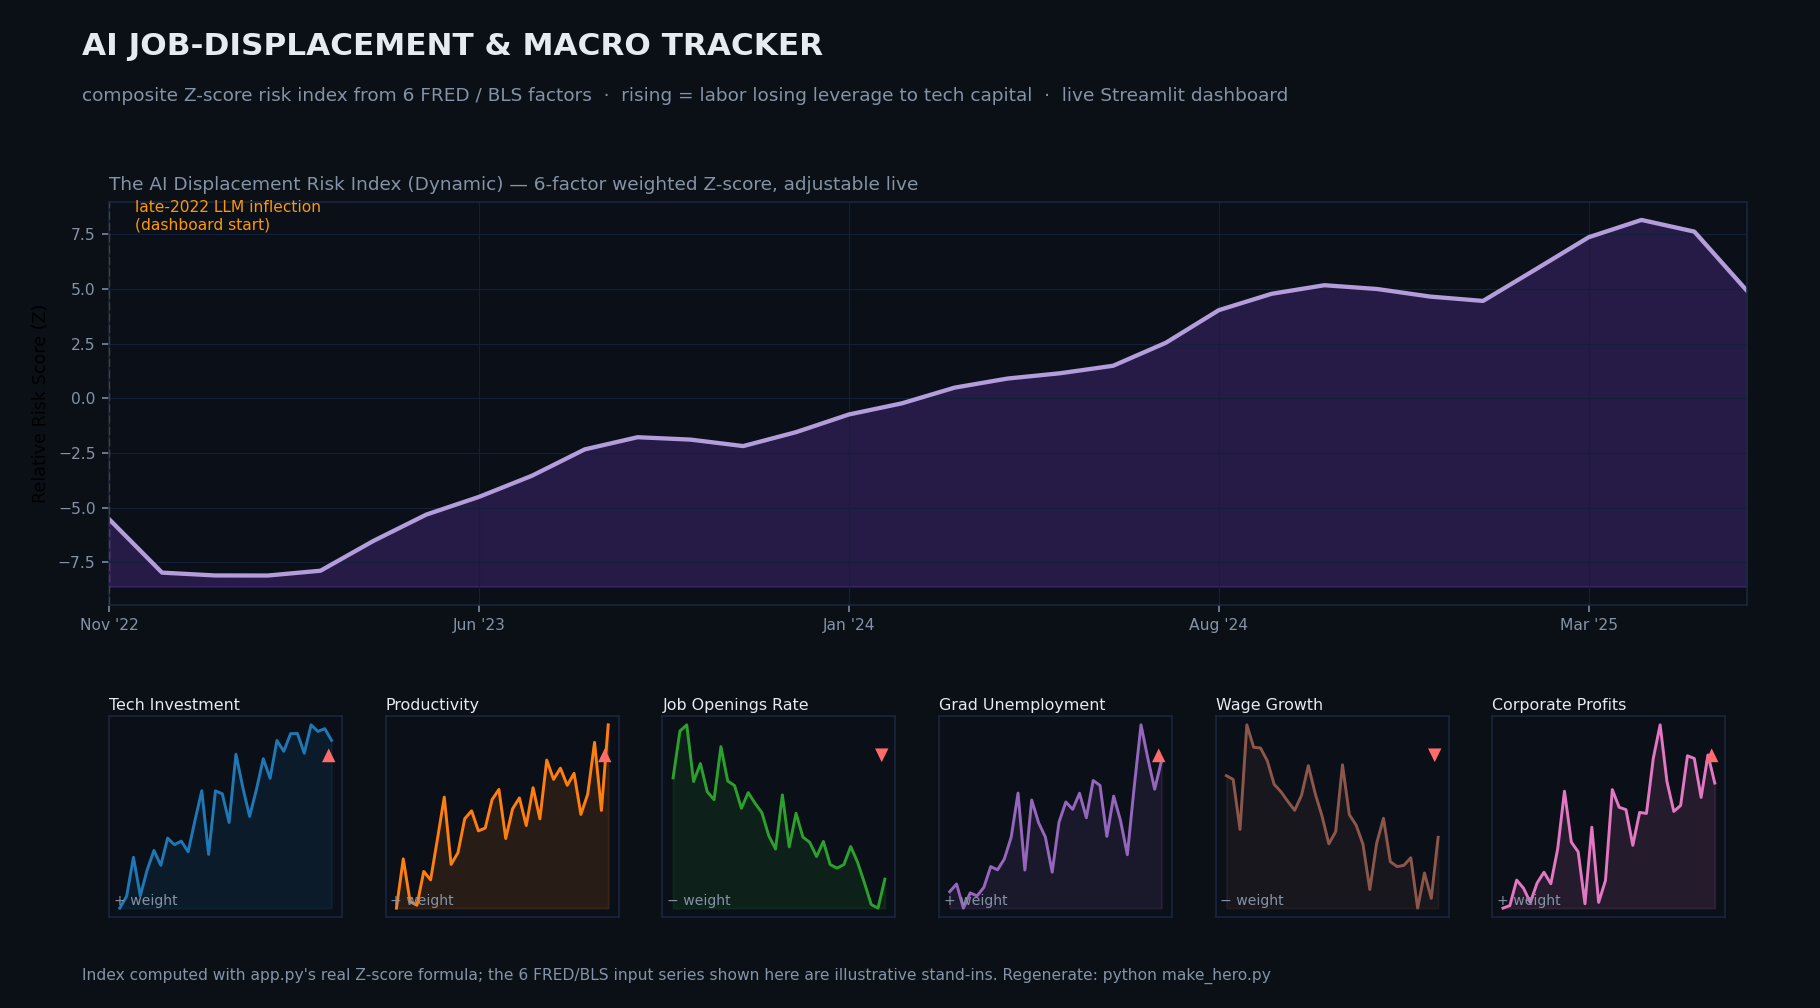
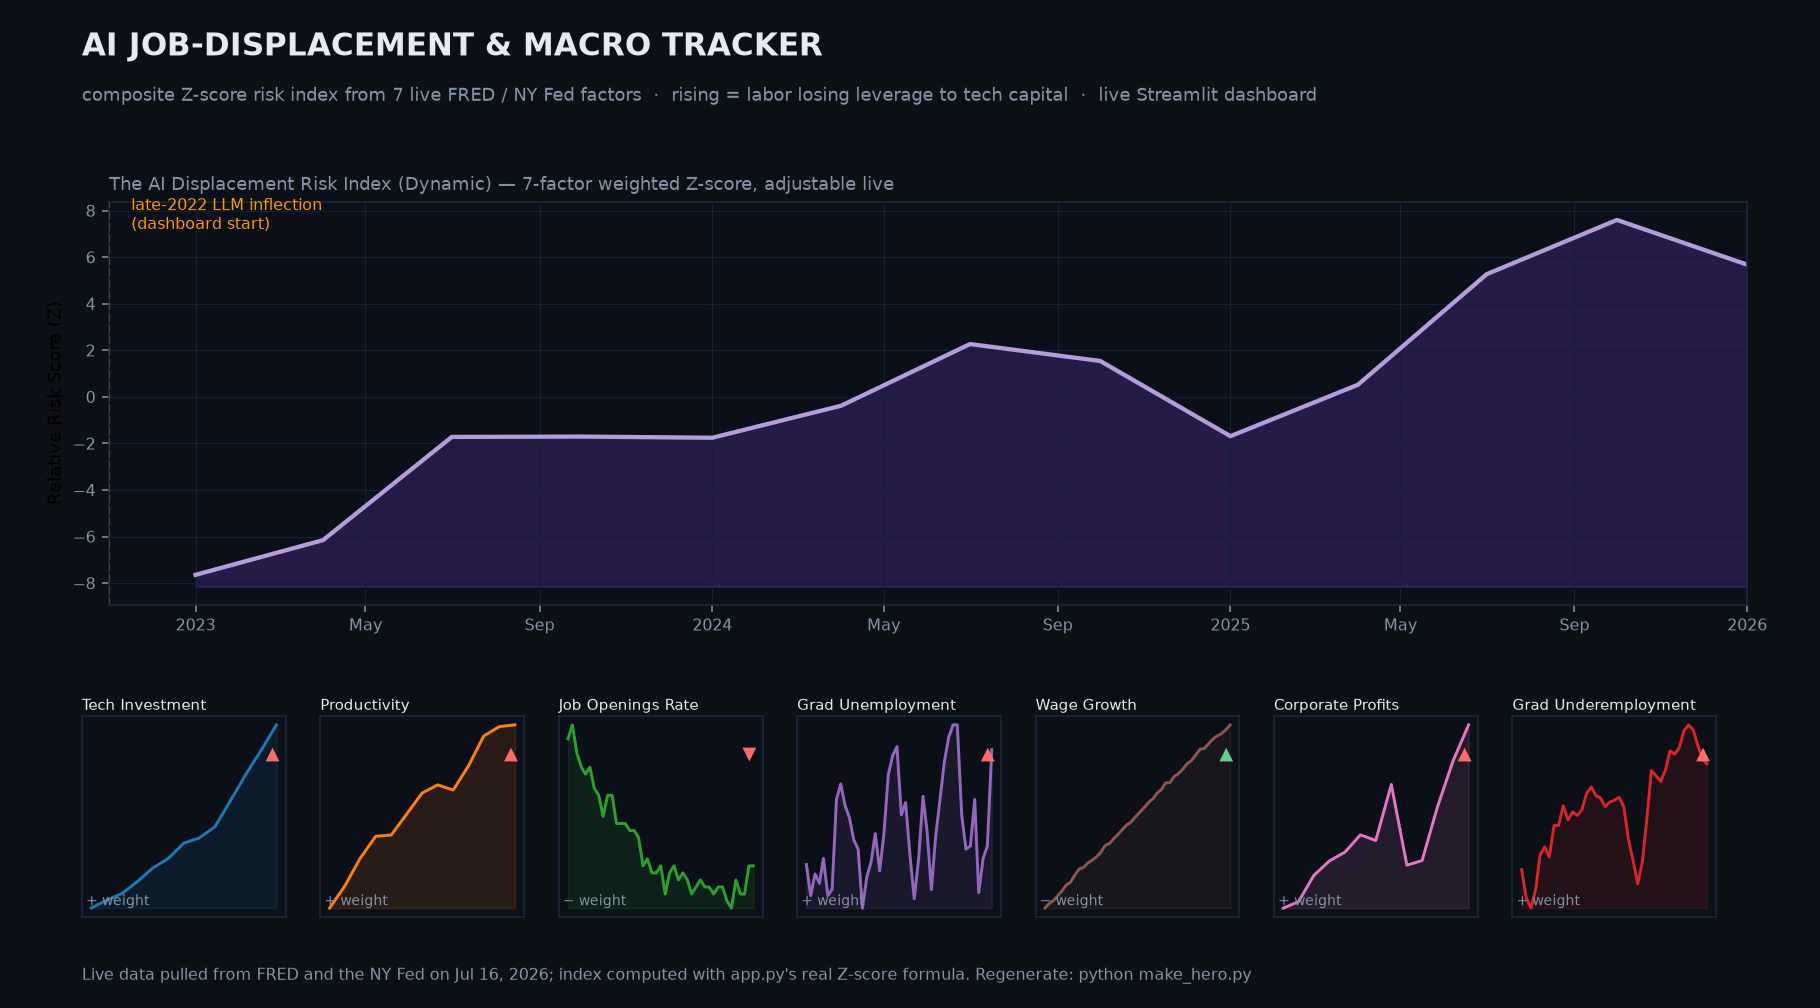
Regenerate hero image from live data with the 7-factor index
make_hero.py now pulls FRED and NY Fed data at generation time and
computes the real 7-factor index (previously 6 illustrative stand-in
series). Pin matplotlib and update the README caption to match.

diff --git a/make_hero.py b/make_hero.py
@@ -2,104 +2,115 @@
 """
 Generate docs/hero.png - the README image.
 
-The composite AI Displacement Risk Index is computed with the app's REAL logic
-(normalize_series -> Z-scores, the same +/- signs and weighted sum from app.py).
-The six underlying FRED/BLS series are illustrative stand-ins (the live app pulls
-them from FRED/BLS/USCIS with your API keys), shaped to the documented thesis:
-labor losing leverage to tech capital after the late-2022 LLM inflection.
+Pulls LIVE data at generation time — the same FRED series as the dashboard
+plus the NY Fed college labor market workbook — and computes the composite
+AI Displacement Risk Index with the app's REAL logic (normalize_series ->
+Z-scores, the same +/- signs and weighted sum from app.py, all weights 1.0).
 
-Run:  python make_hero.py     (needs numpy + matplotlib)
+Run:  python make_hero.py     (needs the app's requirements + matplotlib,
+                               and FRED_API_KEY in .env)
 """
 import os
+from datetime import date
 
-import numpy as np
+import pandas as pd
 import matplotlib
 matplotlib.use("Agg")
+import matplotlib.dates as mdates
 import matplotlib.pyplot as plt
+from dotenv import load_dotenv
 
-rng = np.random.default_rng(7)
-N = 32  # monthly points, Nov 2022 -> ~Jun 2025
+from macro_tracker import fetch_all_macro_data
+from nyfed_extractor import fetch_college_labor_data
+
+START = pd.Timestamp("2022-11-01")  # the dashboard's default post-LLM window
 
 BG, INK, DIM = "#0b1017", "#e6ebf2", "#8493a6"
 IDX_FILL, IDX_LINE = "#673ab7", "#b39ddb"   # app.py index colors
 
 
-def normalize_series(x):
+def normalize_series(series):
     """Z-score — identical to app.py's normalize_series."""
-    s = np.std(x)
-    return (x - np.mean(x)) / s if s else x * 0
+    if series.std() == 0 or len(series) < 2:
+        return series * 0
+    return (series - series.mean()) / series.std()
 
 
-def trend(slope, noise=0.35, start=0.0):
-    base = start + slope * np.linspace(0, 1, N)
-    return base + rng.normal(0, noise, N) * np.std(base if np.std(base) else 1) * 0.5 + rng.normal(0, noise, N)
+# --- pull everything live ---
+load_dotenv()
+api_key = os.getenv("FRED_API_KEY")
+if not api_key:
+    raise SystemExit("FRED_API_KEY not found in .env")
 
+print("[*] Pulling FRED data...")
+macro = fetch_all_macro_data(api_key)
+print("[*] Pulling NY Fed college labor market data...")
+underemp = fetch_college_labor_data()["underemployment"]["Recent graduates"]
 
-# --- six illustrative pillars (raw units), directions per the thesis ---
+# --- the seven pillars, signed exactly as app.py's index ---
 pillars = {
-    "tech":  ("Tech Investment", "+", "#1f77b4", trend(3.0)),
-    "prod":  ("Productivity", "+", "#ff7f0e", trend(1.6)),
-    "jobs":  ("Job Openings Rate", "−", "#2ca02c", trend(-2.4)),
-    "unemp": ("Grad Unemployment", "+", "#9467bd", trend(2.2)),
-    "wage":  ("Wage Growth", "−", "#8c564b", trend(-1.2)),
-    "prof":  ("Corporate Profits", "+", "#e377c2", trend(2.0)),
+    "tech":     ("Tech Investment", 1, "#1f77b4", macro["total_tech_investment"]),
+    "prod":     ("Productivity", 1, "#ff7f0e", macro["productivity"]),
+    "jobs":     ("Job Openings Rate", -1, "#2ca02c", macro["job_openings_rate"]),
+    "unemp":    ("Grad Unemployment", 1, "#9467bd", macro["grad_unemp"]),
+    "wage":     ("Wage Growth", -1, "#8c564b", macro["wages"]),
+    "prof":     ("Corporate Profits", 1, "#e377c2", macro["profits"]),
+    "underemp": ("Grad Underemployment", 1, "#d62728", underemp),
 }
+pillars = {k: (name, sign, col, s[s.index >= START])
+           for k, (name, sign, col, s) in pillars.items()}
+
 # weighted Z-score sum, EXACTLY as app.py builds Dynamic_Risk_Score (all weights 1.0)
-sign = {"tech": 1, "prod": 1, "jobs": -1, "unemp": 1, "wage": -1, "prof": 1}
-risk = np.zeros(N)
-for k, (_, _, _, series) in pillars.items():
-    risk += sign[k] * normalize_series(series)
-
-# smooth a touch for display
-risk_s = np.convolve(risk, np.ones(3) / 3, mode="same")
-x = np.arange(N)
-
-# month tick labels
-labels = {0: "Nov '22", 7: "Jun '23", 14: "Jan '24", 21: "Aug '24", 28: "Mar '25"}
+df_index = pd.DataFrame({k: sign * normalize_series(s)
+                         for k, (_, sign, _, s) in pillars.items()}).dropna()
+risk = df_index.sum(axis=1)
+print(f"[*] Index: {len(risk)} points, {risk.index[0]:%b %Y} -> {risk.index[-1]:%b %Y}")
 
 plt.rcParams.update({"font.family": "DejaVu Sans", "text.color": INK,
                      "axes.edgecolor": "#1b2740"})
 fig = plt.figure(figsize=(13, 7.2), facecolor=BG)
 fig.text(0.045, 0.945, "AI JOB-DISPLACEMENT & MACRO TRACKER",
          fontsize=16, fontweight="bold")
-fig.text(0.045, 0.900, "composite Z-score risk index from 6 FRED / BLS factors  ·  "
+fig.text(0.045, 0.900, "composite Z-score risk index from 7 live FRED / NY Fed factors  ·  "
                        "rising = labor losing leverage to tech capital  ·  live Streamlit dashboard",
          fontsize=9.5, color=DIM)
 
 # ---- main: the risk index ----
 ax = fig.add_axes([0.06, 0.40, 0.9, 0.40], facecolor="#0a0f18")
-ax.fill_between(x, risk_s.min() - 0.5, risk_s, color=IDX_FILL, alpha=0.30)
-ax.plot(x, risk_s, color=IDX_LINE, lw=2.2)
-ax.axvline(0, color="#ff9800", ls="--", lw=1.1)
-ax.text(0.4, ax.get_ylim()[1] * 0.86, " late-2022 LLM inflection\n (dashboard start)",
-        color="#ff9800", fontsize=8)
-ax.set_xticks(list(labels)); ax.set_xticklabels(labels.values())
+ax.fill_between(risk.index, risk.min() - 0.5, risk, color=IDX_FILL, alpha=0.30)
+ax.plot(risk.index, risk, color=IDX_LINE, lw=2.2)
+ax.axvline(START, color="#ff9800", ls="--", lw=1.1)
+ax.text(START + pd.Timedelta(days=12), ax.get_ylim()[1] * 0.86,
+        " late-2022 LLM inflection\n (dashboard start)", color="#ff9800", fontsize=8)
+ax.xaxis.set_major_locator(mdates.AutoDateLocator())
+ax.xaxis.set_major_formatter(mdates.ConciseDateFormatter(ax.xaxis.get_major_locator()))
 ax.set_ylabel("Relative Risk Score (Z)", fontsize=9)
 ax.tick_params(colors=DIM, labelsize=8)
 ax.grid(color="#12203a", lw=0.6)
-ax.set_xlim(0, N - 1)
-ax.set_title("The AI Displacement Risk Index (Dynamic) — 6-factor weighted Z-score, adjustable live",
+ax.set_xlim(START, risk.index[-1])  # keep the LLM-inflection marker in frame
+ax.set_title("The AI Displacement Risk Index (Dynamic) — 7-factor weighted Z-score, adjustable live",
              fontsize=9.5, color=DIM, loc="left", pad=6)
 
-# ---- bottom: the six contributing pillars ----
-cols = 6
-for i, (k, (name, sgn, col, series)) in enumerate(pillars.items()):
-    axp = fig.add_axes([0.06 + i * 0.152, 0.09, 0.128, 0.20], facecolor="#0a0f18")
-    z = normalize_series(series)
-    axp.plot(x, z, color=col, lw=1.5)
-    axp.fill_between(x, z.min(), z, color=col, alpha=0.12)
+# ---- bottom: the seven contributing pillars ----
+for i, (k, (name, sign, col, s)) in enumerate(pillars.items()):
+    axp = fig.add_axes([0.045 + i * 0.131, 0.09, 0.112, 0.20], facecolor="#0a0f18")
+    z = normalize_series(s)
+    axp.plot(z.index, z, color=col, lw=1.5)
+    axp.fill_between(z.index, z.min(), z, color=col, alpha=0.12)
     axp.set_xticks([]); axp.set_yticks([])
-    for s in axp.spines.values():
-        s.set_edgecolor("#1b2740")
-    up = z[-1] >= z[0]
-    axp.set_title(f"{name}", fontsize=8.2, color=INK, loc="left", pad=3)
-    axp.text(0.02, 0.06, f"{sgn} weight", transform=axp.transAxes, fontsize=7.2, color=DIM)
+    for sp in axp.spines.values():
+        sp.set_edgecolor("#1b2740")
+    up = z.iloc[-1] >= z.iloc[0]
+    axp.set_title(f"{name}", fontsize=7.6, color=INK, loc="left", pad=3)
+    axp.text(0.02, 0.06, f"{'+' if sign > 0 else '−'} weight",
+             transform=axp.transAxes, fontsize=7.2, color=DIM)
     axp.text(0.97, 0.85, "▲" if up else "▼", transform=axp.transAxes,
-             fontsize=9, color=("#ff6b6b" if (up == (sign[k] > 0)) else "#5fd08a"),
+             fontsize=9, color=("#ff6b6b" if (up == (sign > 0)) else "#5fd08a"),
              ha="right", va="top")
 
-fig.text(0.045, 0.028, "Index computed with app.py's real Z-score formula; the 6 FRED/BLS input series "
-                       "shown here are illustrative stand-ins. Regenerate: python make_hero.py",
+fig.text(0.045, 0.028, f"Live data pulled from FRED and the NY Fed on {date.today():%b %d, %Y}; "
+                       "index computed with app.py's real Z-score formula. "
+                       "Regenerate: python make_hero.py",
          fontsize=8, color=DIM)
 
 os.makedirs("docs", exist_ok=True)

diff --git a/README.md b/README.md
@@ -6,7 +6,7 @@ It tracks a mix of macroeconomic indicators and micro-level labor data, and calc
 
 ![AI Displacement Risk Index dashboard](docs/hero.png)
 
-*The composite risk index is computed with `app.py`'s real Z-score formula over the 6 weighted factors; the input series shown here are illustrative stand-ins (the live app pulls them from FRED/BLS/USCIS with your API keys). Regenerate with `python make_hero.py`.*
+*The composite risk index is computed with `app.py`'s real Z-score formula over the 7 weighted factors, from live data pulled from FRED and the NY Fed at generation time. Regenerate with `python make_hero.py`.*
 
 ### What it tracks
 
